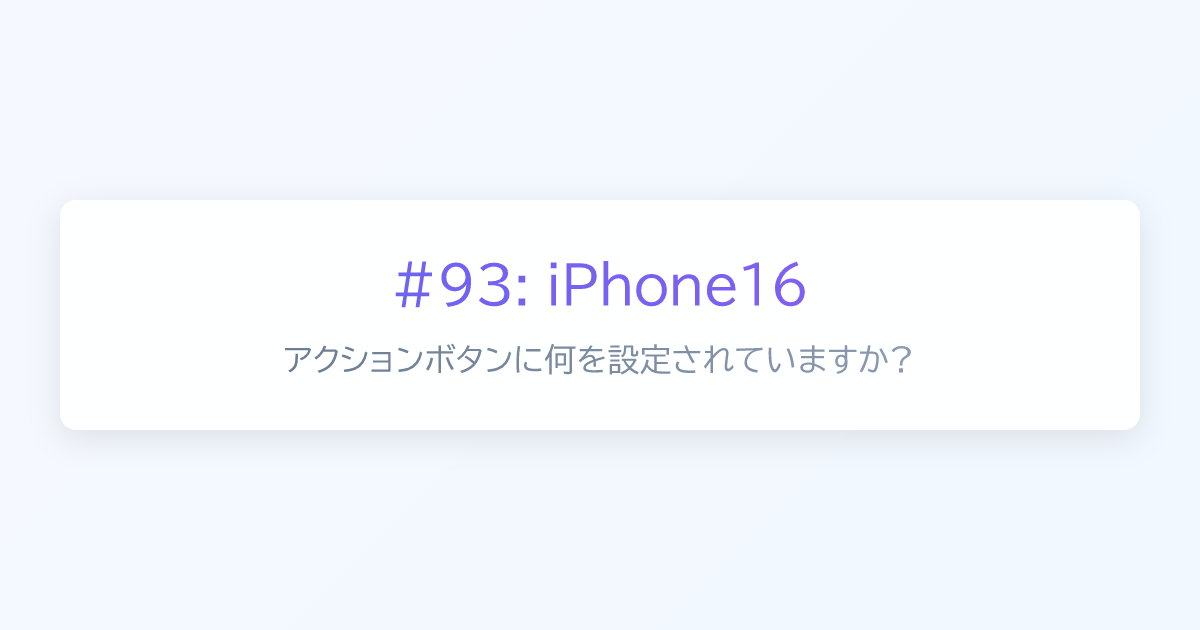
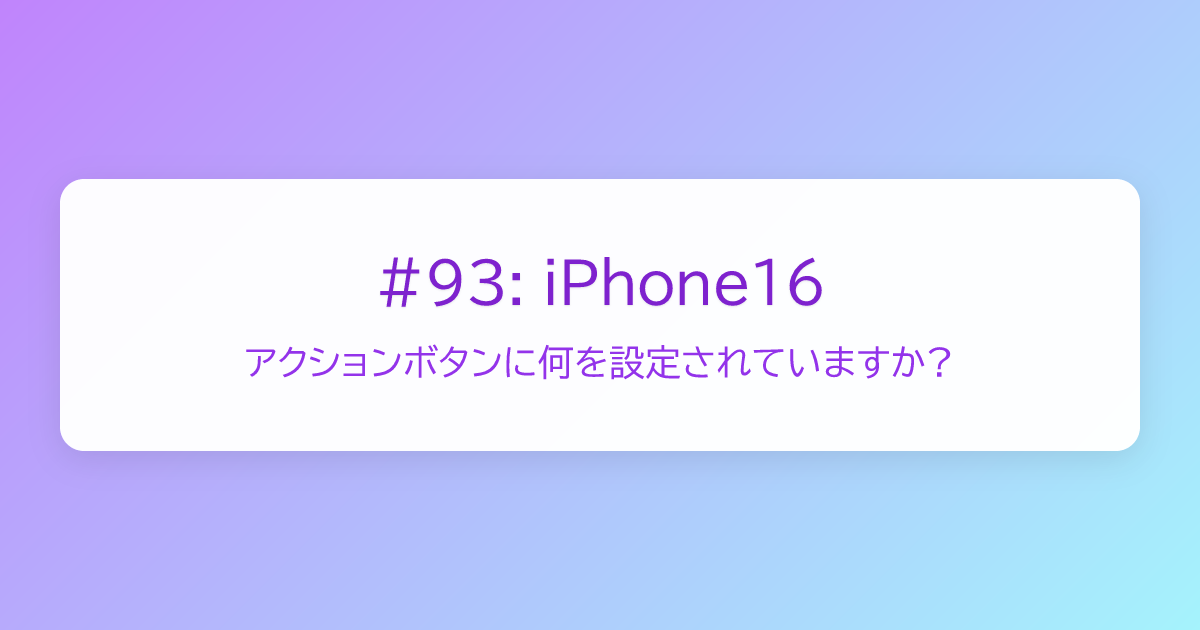
gen

diff --git a/scripts/generate-og.jsx b/scripts/generate-og.jsx
@@ -24,6 +24,111 @@ if (latestIndex !== -1 && (!Number.isFinite(latestCount) || latestCount <= 0)) {
 
 const fontData = fs.readFileSync("./fonts/morisawa-biz-ud-gothic/fonts/ttf/BIZUDPGothic-Regular.ttf", null);
 
+async function generateOGP(options) {
+	const { title, subtitle, outPath } = options;
+
+	// satori用のReact仮想DOMを定義
+	const element = (
+		<div
+			style={{
+				width: WIDTH,
+				height: HEIGHT,
+				display: "flex",
+				justifyContent: "center",
+				alignItems: "center",
+				backgroundImage: "linear-gradient(135deg, #C084FC 0%, #A5F3FC 100%)",
+				fontSize: "48px",
+				fontFamily: "BIZUDPGothic",
+				position: "relative",
+			}}
+		>
+			<div
+				style={{
+					width: "90%",
+					maxWidth: "1100px",
+					background: "rgba(255, 255, 255, 0.97)",
+					backdropFilter: "blur(8px)",
+					borderRadius: "24px",
+					boxShadow: "0 8px 32px rgba(0, 0, 0, 0.1)",
+					padding: "64px 48px",
+					lineHeight: 1.4,
+					color: "#111",
+					textAlign: "center",
+					display: "flex",
+					flexDirection: "column",
+					gap: "24px",
+					alignItems: "center",
+				}}
+			>
+				<div 
+					style={{ 
+						wordBreak: "break-word",
+						display: "flex",
+						flexDirection: "column",
+						gap: "16px",
+						maxWidth: "90%",
+					}}
+				>
+					<div
+						style={{
+							display: "flex",
+							justifyContent: "center",
+							fontSize: "56px",
+							fontWeight: "bold",
+							color: "#7E22CE",
+							letterSpacing: "-1px",
+							textShadow: "0 1px 2px rgba(0, 0, 0, 0.1)",
+						}}
+					>
+						{title}
+					</div>
+					{subtitle && (
+						<div
+							style={{
+								display: "flex",
+								justifyContent: "center",
+								fontSize: "36px",
+								color: "#9333EA",
+							}}
+						>
+							{subtitle}
+						</div>
+					)}
+				</div>
+			</div>
+		</div>
+	);
+
+	// satoriでSVGを生成
+	const svg = await satori(element, {
+		width: WIDTH,
+		height: HEIGHT,
+		fonts: [
+			{
+				name: "BIZUDPGothic",
+				data: fontData,
+				weight: 400,
+				style: "normal",
+			},
+		],
+	});
+
+	// SVG → PNG変換
+	const resvg = new Resvg(svg, {
+		fitTo: {
+			mode: "width",
+			value: WIDTH,
+		},
+		background: "white",
+	});
+	const pngData = resvg.render();
+	const pngBuffer = pngData.asPng();
+
+	// 保存
+	fs.writeFileSync(outPath, pngBuffer);
+	console.log(`Generated -> ${outPath}`);
+}
+
 async function main() {
 	// 生成先ディレクトリがなければ作成
 	if (!fs.existsSync(OUT_DIR)) {
@@ -44,8 +149,8 @@ async function main() {
 		// サブタイトルを抽出
 		const match = fullTitle.match(/^(.*?)〜(.+?)〜(.*)$/);
 		const [title, subtitle] = match 
-			? [match[1] + match[3], match[2]] // サブタイトルがある場合
-			: [fullTitle, null];               // サブタイトルがない場合
+			? [match[1] + match[3], match[2]]
+			: [fullTitle, null];
 
 		const outPath = path.join(OUT_DIR, `ep-${epNumber}.png`);
 
@@ -55,110 +160,7 @@ async function main() {
 			continue;
 		}
 
-		// satori用のReact仮想DOMを定義
-		const element = (
-			<div
-				style={{
-					width: WIDTH,
-					height: HEIGHT,
-					display: "flex",
-					justifyContent: "center",
-					alignItems: "center",
-					backgroundImage: "linear-gradient(135deg, #f6f8ff 0%, #f1f8ff 100%)",
-					fontSize: "48px",
-					fontFamily: "BIZUDPGothic",
-				}}
-			>
-				<div
-					style={{
-						width: "90%",
-						maxWidth: "1100px",
-						background: "rgba(255, 255, 255, 0.9)",
-						backdropFilter: "blur(8px)",
-						borderRadius: "16px",
-						boxShadow: "0 8px 32px rgba(0, 0, 0, 0.1)",
-						padding: "48px",
-						lineHeight: 1.4,
-						color: "#111",
-						textAlign: "center",
-						display: "flex",
-						flexDirection: "column",
-						justifyContent: "center",
-					}}
-				>
-					<div 
-						style={{ 
-							wordBreak: "break-word",
-							display: "flex",
-							flexDirection: "column",
-							gap: "16px",
-						}}
-					>
-						<div
-							style={{
-								display: "flex",
-								justifyContent: "center",
-								fontSize: "52px",
-								fontWeight: "bold",
-								backgroundImage: "linear-gradient(90deg, #6366f1, #8b5cf6)",
-								backgroundClip: "text",
-								"-webkit-background-clip": "text",
-								color: "transparent",
-								letterSpacing: "-1px",
-							}}
-						>
-							{title}
-						</div>
-						{subtitle && (
-							<div
-								style={{
-									display: "flex",
-									justifyContent: "center",
-									fontSize: "32px",
-									backgroundImage: "linear-gradient(90deg, #64748b, #94a3b8)",
-									backgroundClip: "text",
-									"-webkit-background-clip": "text",
-									color: "transparent",
-								}}
-							>
-								{subtitle}
-							</div>
-						)}
-					</div>
-				</div>
-			</div>
-		);
-
-		// satoriでSVGを生成
-		const svg = await satori(element, {
-			width: WIDTH,
-			height: HEIGHT,
-			// フォント設定
-			fonts: [
-				{
-					name: "BIZUDPGothic",
-					data: fontData,
-					weight: 400,
-					style: "normal",
-				},
-			],
-		});
-
-		// SVG → PNG変換
-		const resvg = new Resvg(svg, {
-			fitTo: {
-				mode: "width",
-				value: WIDTH,
-			},
-			// 背景を白にしたい場合
-			background: "white",
-		});
-		const pngData = resvg.render();
-		const pngBuffer = pngData.asPng();
-
-		// 保存
-		fs.writeFileSync(outPath, pngBuffer);
-		console.log(`Generated -> ${outPath}`);
+		await generateOGP({ title, subtitle, outPath });
 	}
 }
 
